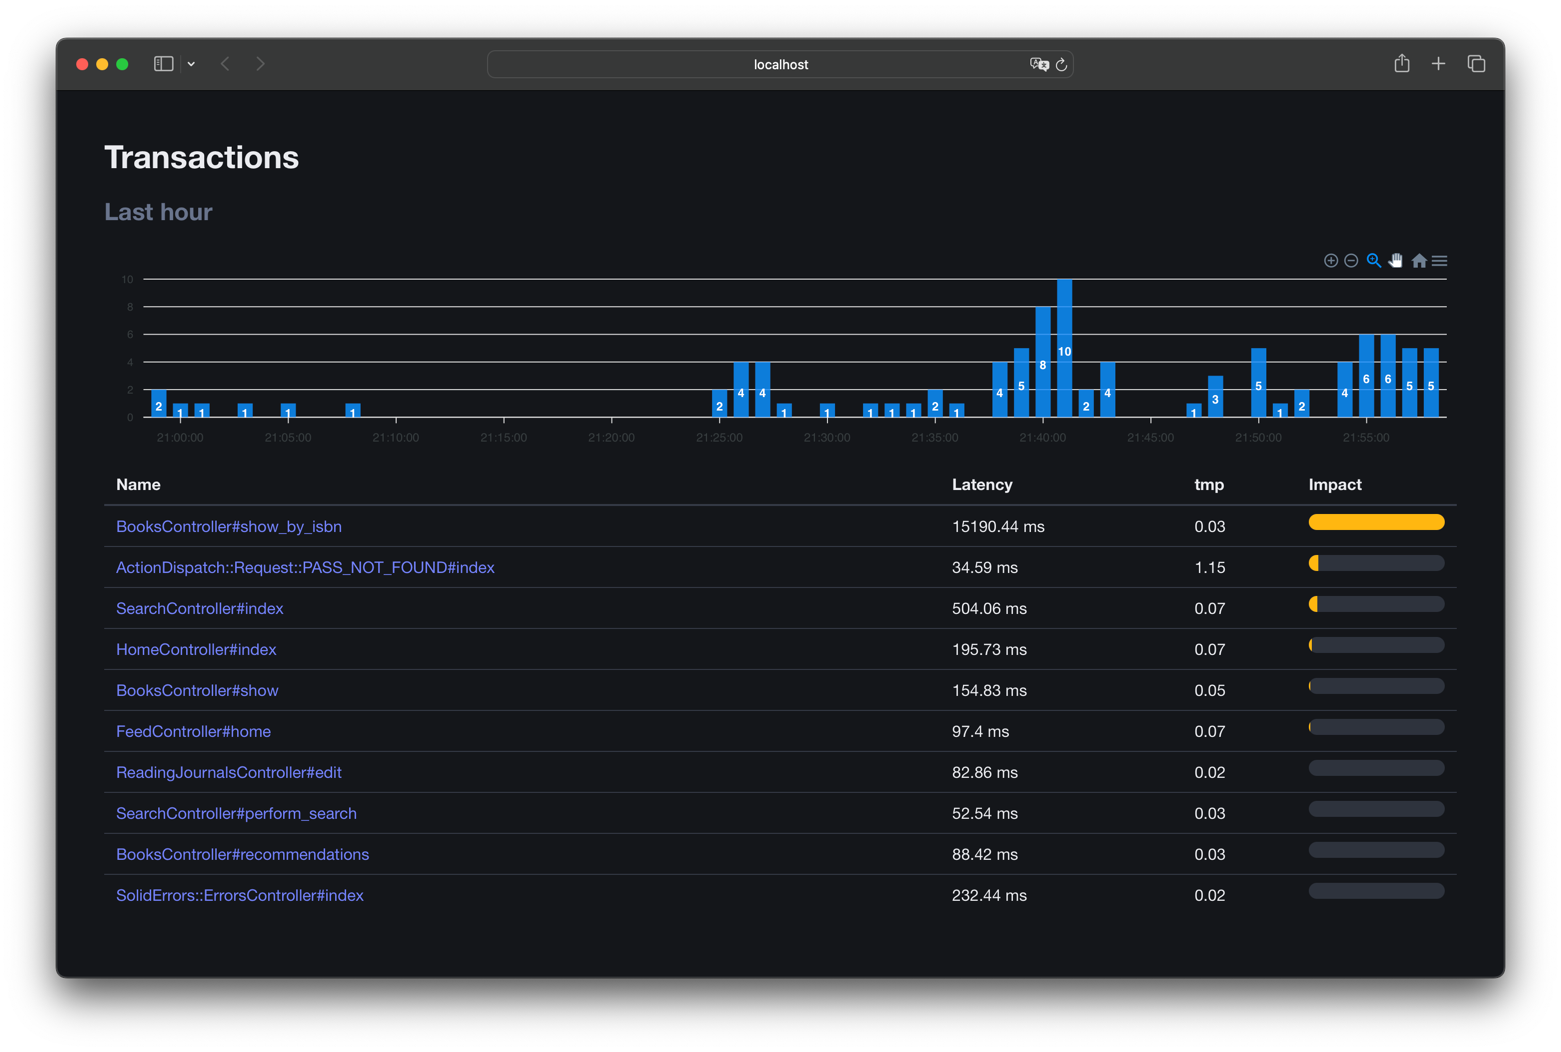
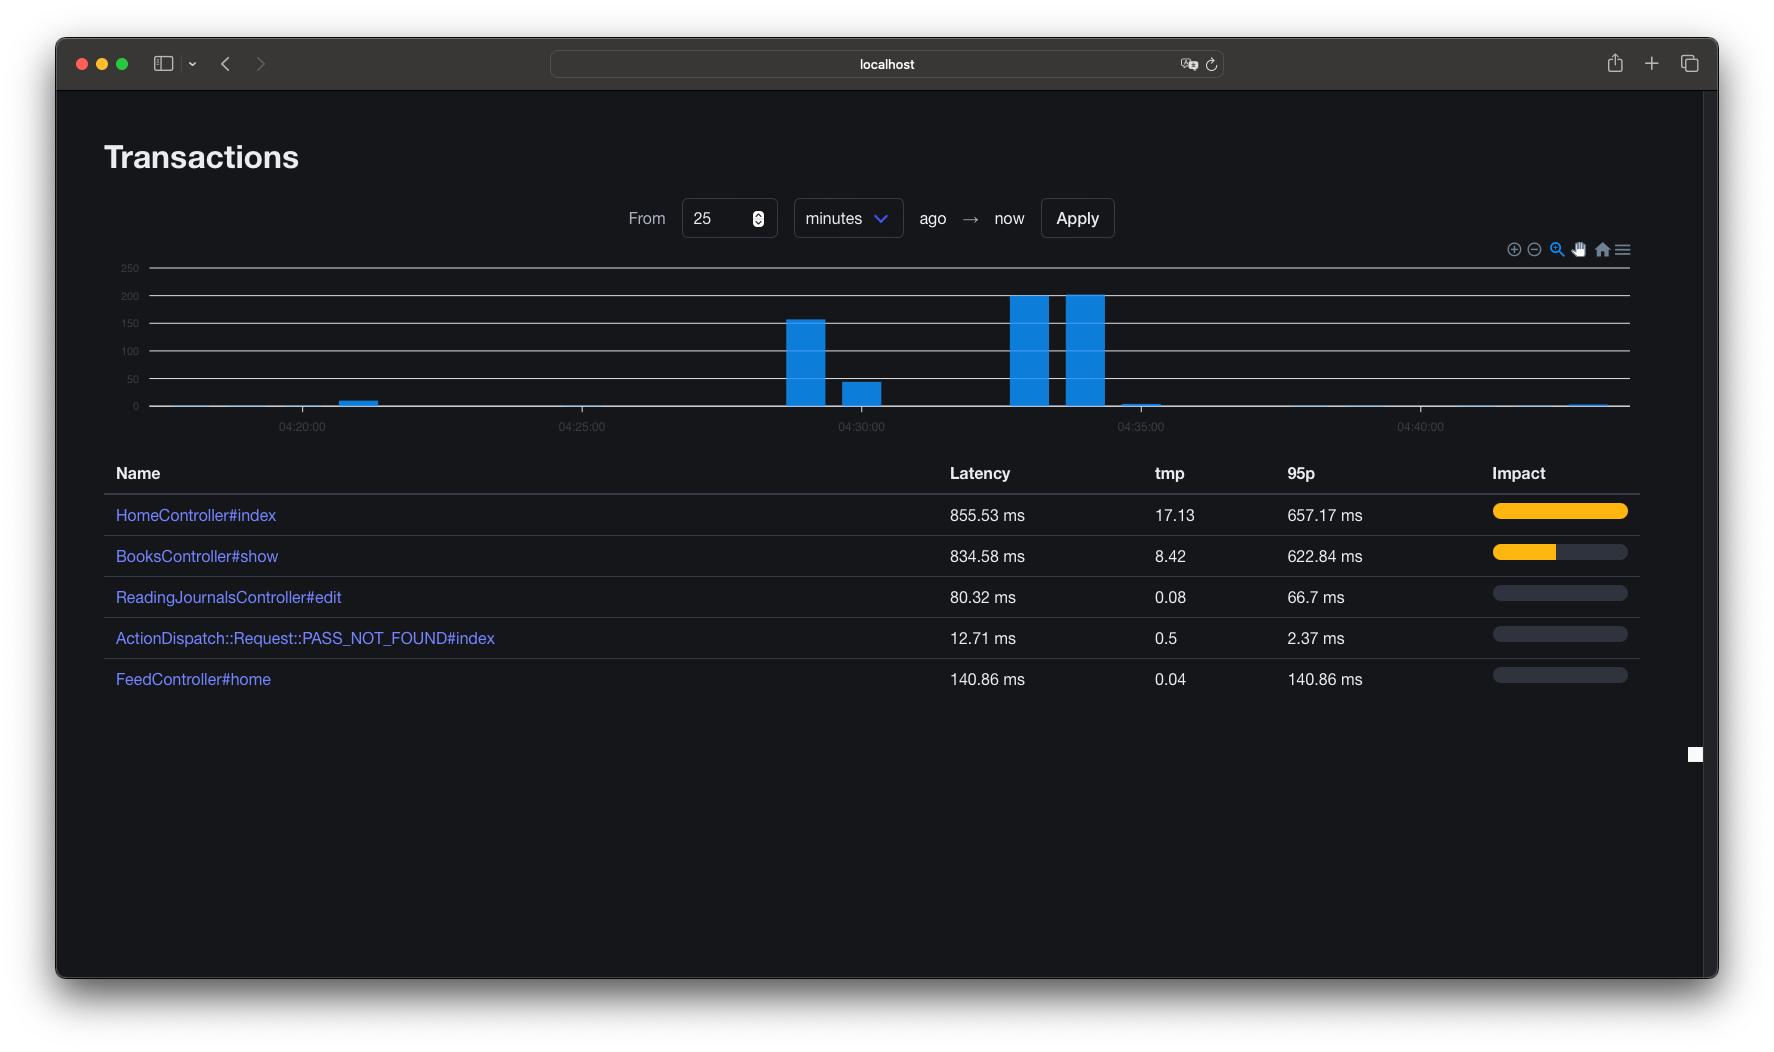
Date range (#2)

diff --git a/app/assets/javascripts/solid_apm/controllers/transaction-chart_controller.js b/app/assets/javascripts/solid_apm/controllers/transaction-chart_controller.js
@@ -28,6 +28,9 @@ window.Stimulus.register('transaction-chart',
       xaxis: {
         type: 'datetime'
       },
+      dataLabels: {
+        enabled: false
+      },
       tooltip: {
         x: {
           formatter: function (value) {
@@ -38,8 +41,15 @@ window.Stimulus.register('transaction-chart',
     }
 
     let path = window.location.pathname.includes('transactions') ? 'count_by_minutes' : 'transactions/count_by_minutes';
+    path = path + "?";
     if (this.nameValue) {
-      path = path + "?name=" + encodeURIComponent(this.nameValue);
+      path = path + "name=" + encodeURIComponent(this.nameValue);
+    }
+
+    const fromValue = document.querySelector('input[name="from_value"]').value
+    const fromUnit = document.querySelector('select[name="from_unit"]').value;
+    if (fromValue && fromUnit) {
+      path = path + "&from_value=" + fromValue + "&from_unit=" + fromUnit;
     }
 
     fetch(path)

diff --git a/app/controllers/solid_apm/transactions_controller.rb b/app/controllers/solid_apm/transactions_controller.rb
@@ -5,10 +5,10 @@ module SolidApm
     TransactionAggregation = Struct.new(:name, :tmp, :latency, :percentile_95, :impact)
 
     def index
-      @aggregated_transactions = Transaction.where(created_at: 1.hour.ago..).group_by(&:name)
+      @aggregated_transactions = Transaction.where(created_at: from_to_range).group_by(&:name)
       @aggregated_transactions.transform_values! do |transactions|
         latency = transactions.map(&:duration).sum / transactions.size
-        tmp = transactions.size.to_f / 60
+        tmp = transactions.size.to_f / ((from_to_range.end - from_to_range.begin) / 60).to_i
         impact = latency * tmp
         percentile_95 = transactions[transactions.size * 0.95].duration
         TransactionAggregation.new(
@@ -26,7 +26,8 @@ module SolidApm
       # Normalize impact 0-100
       @aggregated_transactions.each do |_, aggregation|
         normalized_impact = ((aggregation.impact - min_impact) / (max_impact - min_impact)) * 100
-        aggregation.impact = normalized_impact.to_i
+        normalized_impact = 0 if normalized_impact.nan?
+        aggregation.impact = normalized_impact.to_i || 0
       end
       @aggregated_transactions = @aggregated_transactions.sort_by { |_, v| -v.impact }.to_h
     end
@@ -47,7 +48,7 @@ module SolidApm
 
     def count_by_minutes
       scope = Transaction.all.order(timestamp: :desc)
-                 .where(created_at: 1.hour.ago..)
+                 .where(created_at: from_to_range)
 
       if params[:name].present?
         scope = scope.where(name: params[:name])
@@ -55,6 +56,16 @@ module SolidApm
 
       render json: scope.group_by { |t| t.created_at.beginning_of_minute }
            .transform_values!(&:count)
+    end
+
+    private
+
+    def from_to_range
+      params[:from_value] ||= 60
+      params[:from_unit] ||= 'minutes'
+      from = params[:from_value].to_i.public_send(params[:from_unit].to_sym).ago
+      to = Time.current
+      (from..to)
     end
   end
 end
